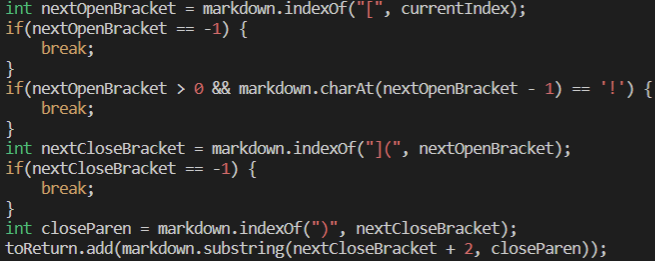
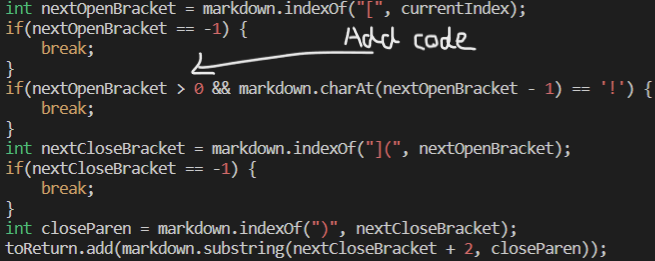
Updates

Changed region(s): [[0.2748, 0.092, 0.7328, 0.3065]]

diff --git a/lab-report-5-week-10.md b/lab-report-5-week-10.md
@@ -34,4 +34,4 @@ My implementation demonstrates the correct output
 3. Description of the bug and a possible fix
 * Code segment
 ![image](image-5\5.4.png)
-* Solution: For this test case, it is the provided implementation that produces the wrong output. As you can see, the test 201.md includes `:` as well. But what's different from the previous test 194.md is that the existance of a space right after that `:` sigh. Even though I am not too sure how `:` is used in markdown language, I could deduce that the insertion of space after `:` would cut down the connection between the brackets and parenthesis, preventing a link to be created. As of the actual code change, I believe some modifications should be made around the code segment above as that section of code is mainly in charge of the task of finding the next open parenthesis. 
+* Solution: For this test case, it is the provided implementation that produces the wrong output. As you can see, the test 201.md includes `:` as well. But what's different from the previous test 194.md is that the existance of a space right after that `:` sigh. Even though I am not too sure how `:` is used in markdown language, I could deduce that the insertion of space after `:` would cut down the connection between the brackets and parenthesis, preventing a link to be created. As of the actual code change, I believe some modifications should be made in the highlighted region of the code segment above as that section of code is mainly in charge of the task of finding the next open parenthesis. 
